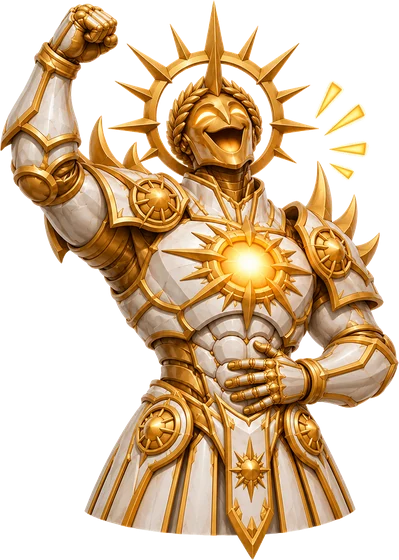
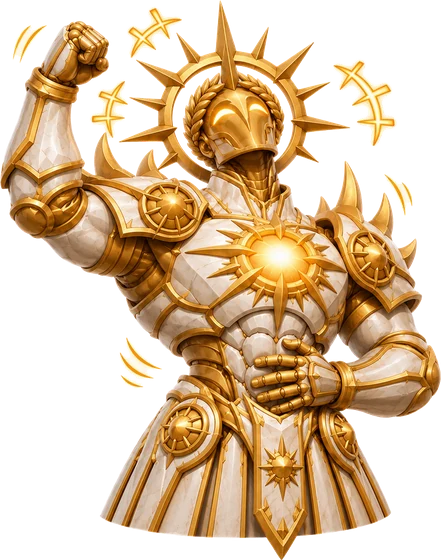
feat(meu-mundo): arte das expressões novas — deuses e skins; Aurion refeito sem boca
Ciborgue, Garras, Kragor, Marú, Golem, Cavaleiro, Noctis e Zéphyra ganham as 6 novas
(medo, susto, deboche, gargalhada, fome, determinado). Aurion, Golem e Cavaleiro só com
os olhos (pedido do Alex de 16/11: sem boca). Morkhan com 3 (gargalhada, fome,
determinado); as outras 3 dele e a Íris seguem na antiga mais perto até a arte chegar.

diff --git a/features/meu-mundo/ui/portraits.ts b/features/meu-mundo/ui/portraits.ts
@@ -116,26 +116,28 @@ export const BASE_OF: Record<Emotion, BaseEmotion> = {
 }
 
 const ALL6: Emotion[] = BASE_EMOTIONS
-/** As 12 (2026-11-15: as 6 novas chegaram; pipeline/build_emotions_single.py). */
+/** As 12 (2026-11-15: as 6 novas chegaram; pipeline/build_emotions_single.py). 2026-11-17: deuses e skins
+ * (Aurion, Golem e Cavaleiro sem boca); falta a Íris inteira e 3 do Morkhan. */
 const ALL12: Emotion[] = EMOTIONS
 /** Quais lâminas existem (o mesmo que retratos/v3/emo/manifest.json). */
 const EMOTION_ART: Partial<Record<BodyId, Emotion[]>> = {
   aeryn: ALL12,
   aurion: ALL12,
-  cavaleiro: ALL6,
-  ciborgue: ALL6,
-  garras: ALL6,
-  golem: ALL6,
+  cavaleiro: ALL12,
+  ciborgue: ALL12,
+  garras: ALL12,
+  golem: ALL12,
   iris: ALL6,
-  kragor: ALL6,
-  maru: ALL6,
-  morkhan: ALL6,
-  noctis: ALL6,
+  kragor: ALL12,
+  maru: ALL12,
+  // faltam medo, susto e deboche do Morkhan (caem na antiga mais perto)
+  morkhan: [...BASE_EMOTIONS, "laughing", "hungry", "determined"],
+  noctis: ALL12,
   raposa: ALL12,
   vampira: ALL12,
   vampira_adulta: ALL12,
   vampiro: ALL12,
-  zephyra: ALL6,
+  zephyra: ALL12,
   // 2026-11-03 (2ª leva): vampiro adulto e as três raposas
   vampiro_adulto: ALL12,
   raposa_f: ALL12,
